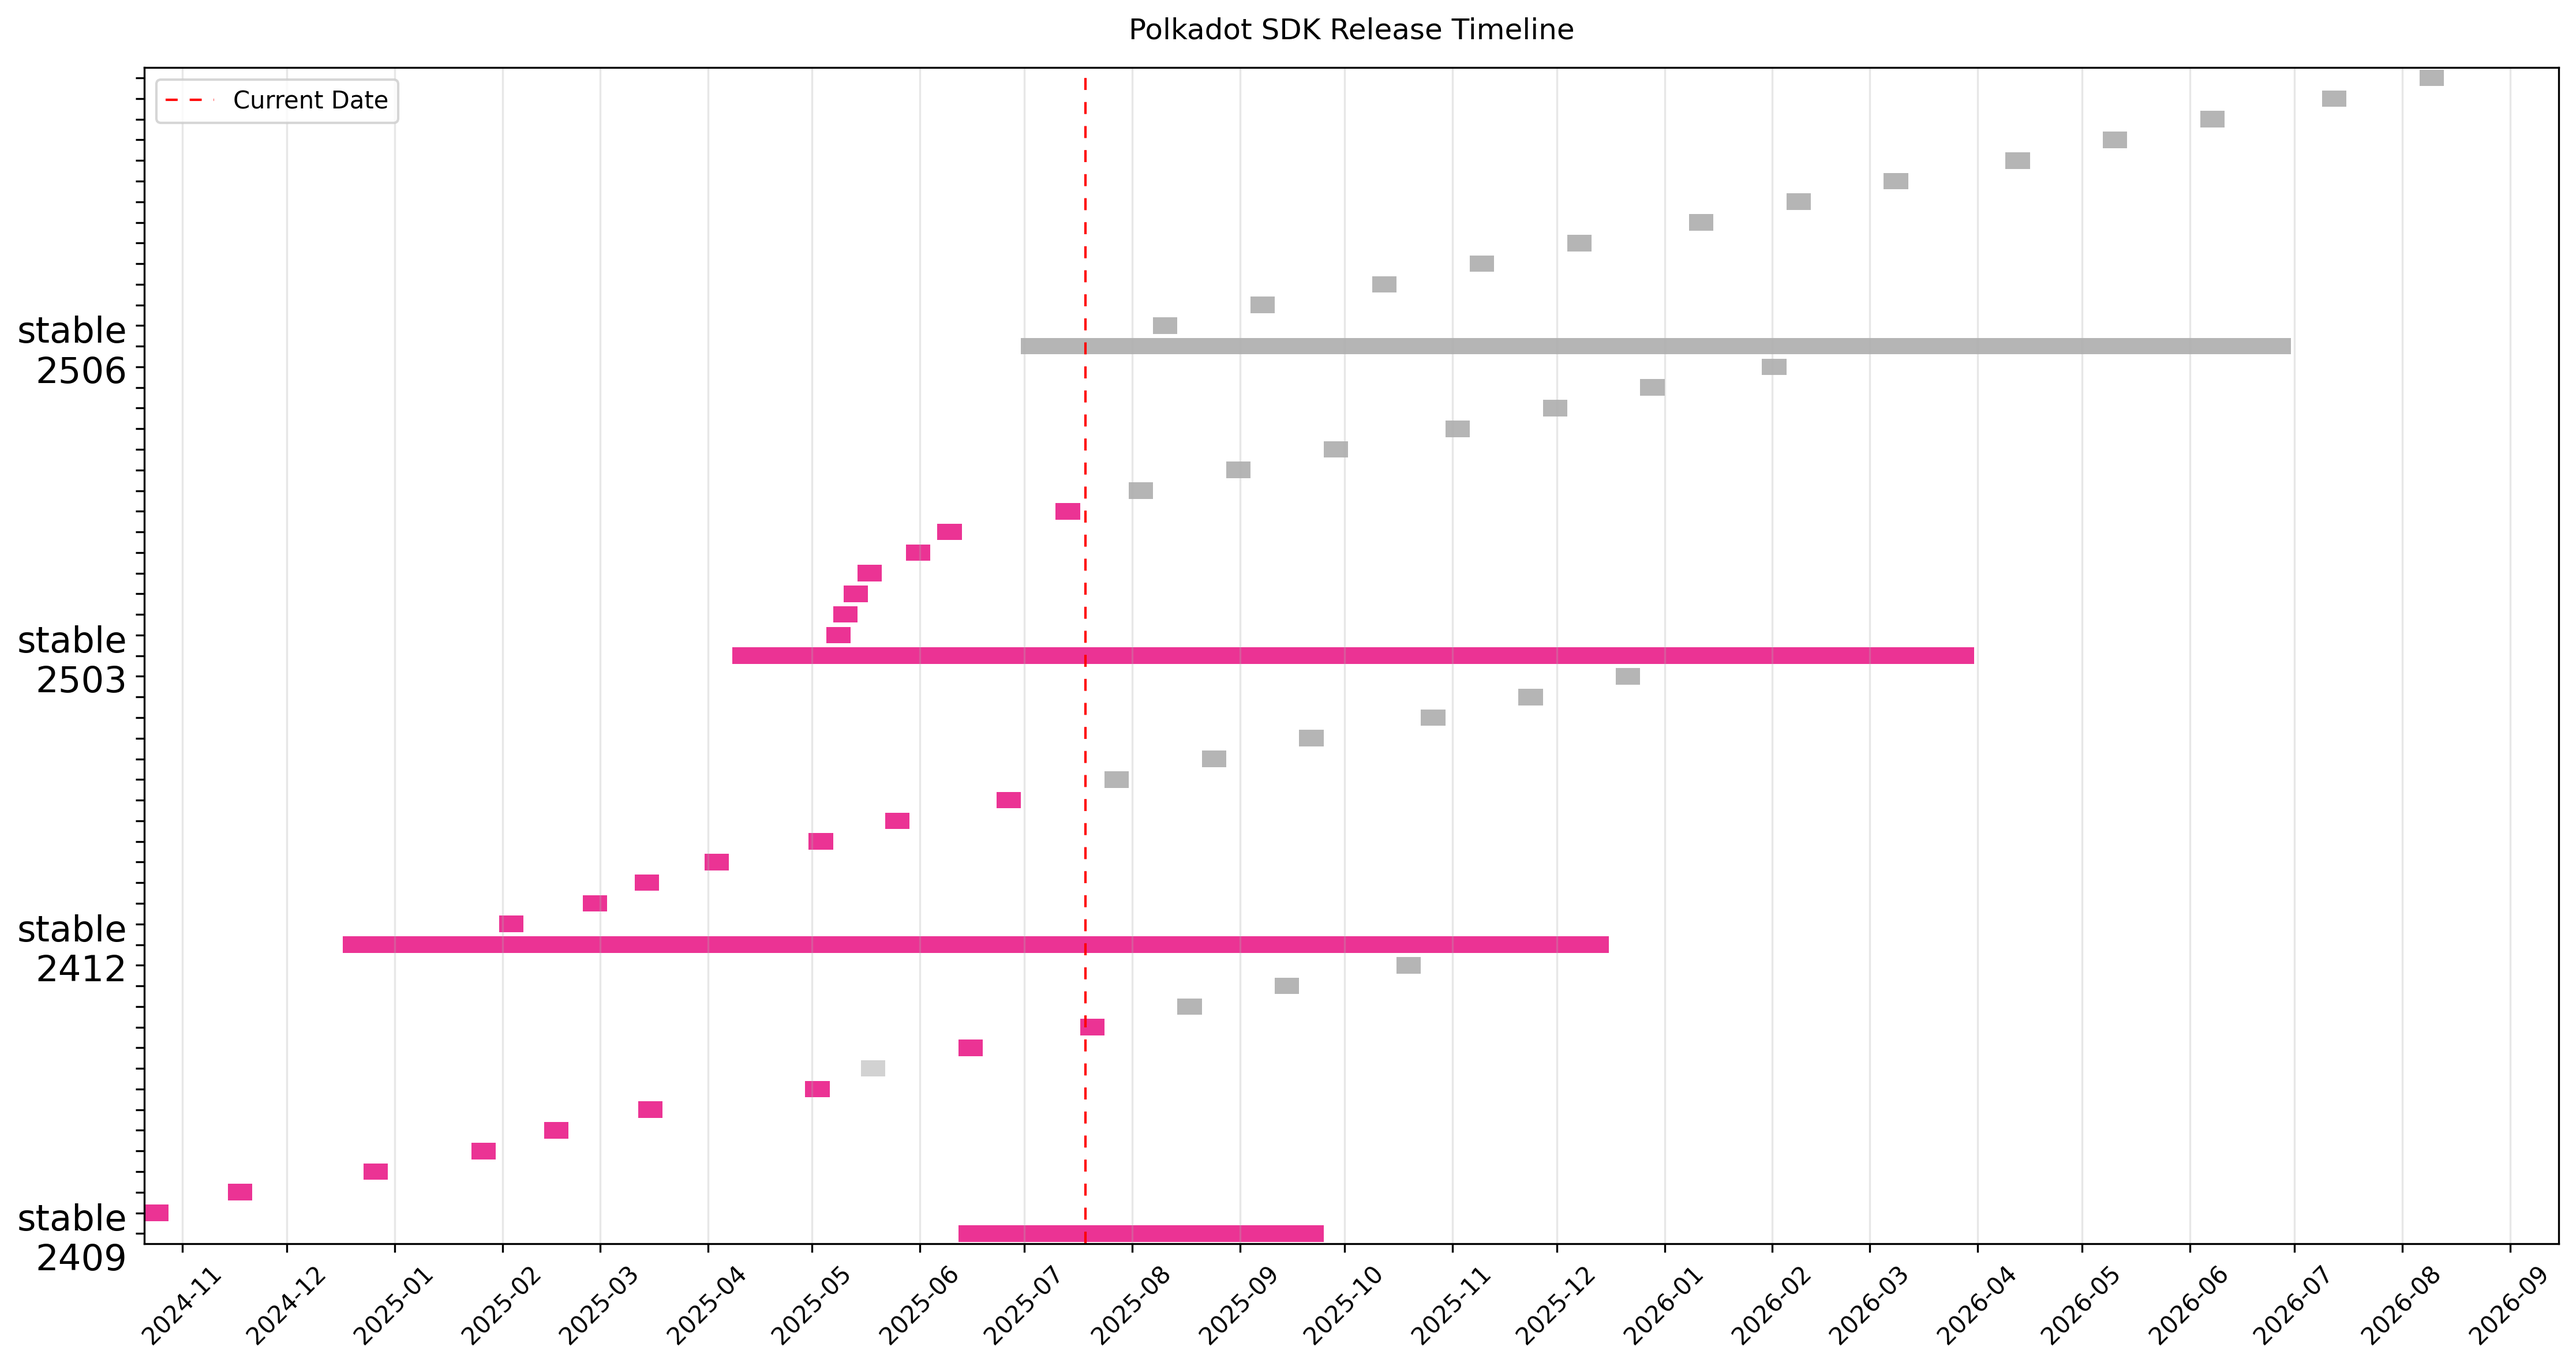
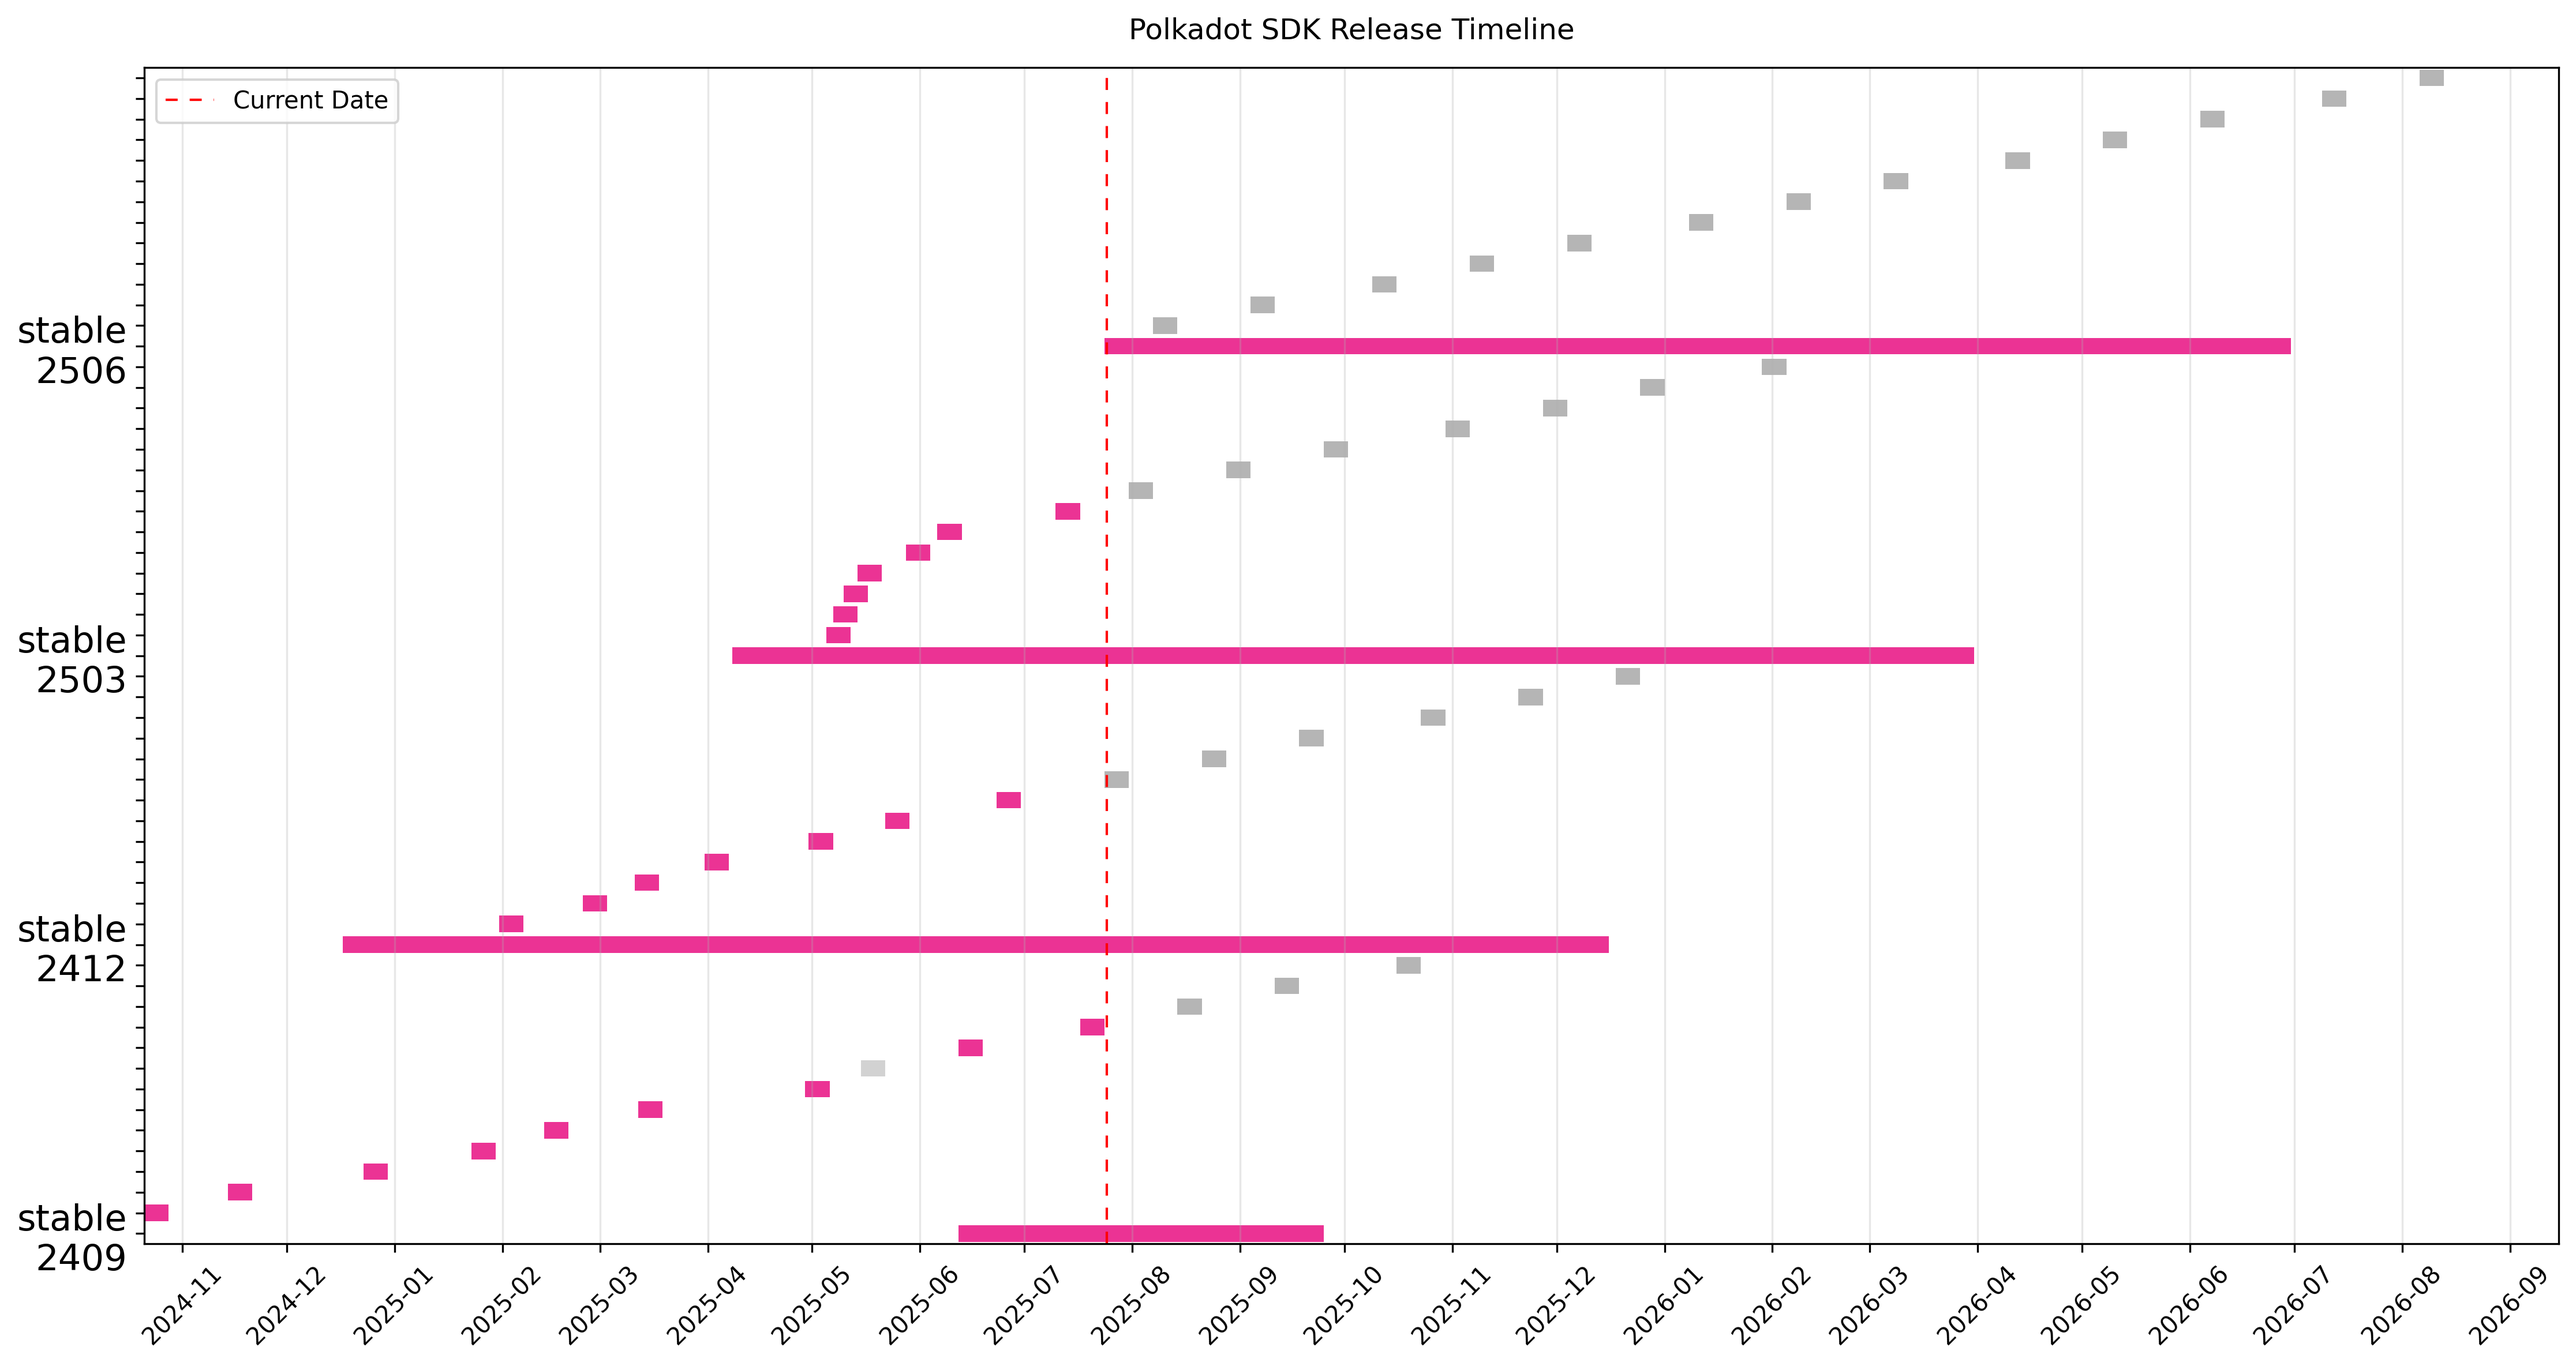
Release stable2506 (#64)

Changed region(s): [[0.4048, 0.2188, 0.903, 0.2812]]

diff --git a/CALENDAR.md b/CALENDAR.md
@@ -8,7 +8,7 @@ Full untruncated version index.
 
 | Version | Cutoff | Publish | End of Life | State |
 |---------|--------|-----------|-------------|-------|
-| **stable2506** | 2025-05-15 | 2025-06-30 | 2026-06-30 | Planned |
+| **stable2506** | 2025-05-15 | 2025-07-24 | 2026-06-30 | [Released](https://github.com/paritytech/polkadot-sdk/releases/tag/polkadot-stable2506) |
 | &nbsp;&nbsp;stable2506-1 | 2025-08-04 | 2025-08-07 |  | Planned |
 | &nbsp;&nbsp;stable2506-2 | 2025-09-01 | 2025-09-04 |  | Planned |
 | &nbsp;&nbsp;stable2506-3 | 2025-10-06 | 2025-10-09 |  | Planned |

diff --git a/README.md b/README.md
@@ -20,7 +20,7 @@ Planned and historic release dates:
 
 | Version | Cutoff | Publish | End of Life | State |
 |---------|--------|-----------|-------------|-------|
-| **stable2506** | 2025-05-15 | 2025-06-30 | 2026-06-30 | Planned |
+| **stable2506** | 2025-05-15 | 2025-07-24 | 2026-06-30 | [Released](https://github.com/paritytech/polkadot-sdk/releases/tag/polkadot-stable2506) |
 | &nbsp;&nbsp;stable2506-1 | 2025-08-04 | 2025-08-07 |  | Planned |
 | &nbsp;&nbsp;stable2506-2 | 2025-09-01 | 2025-09-04 |  | Planned |
 | &nbsp;&nbsp;[11 more planned](CALENDAR.md) |  |  | | |
